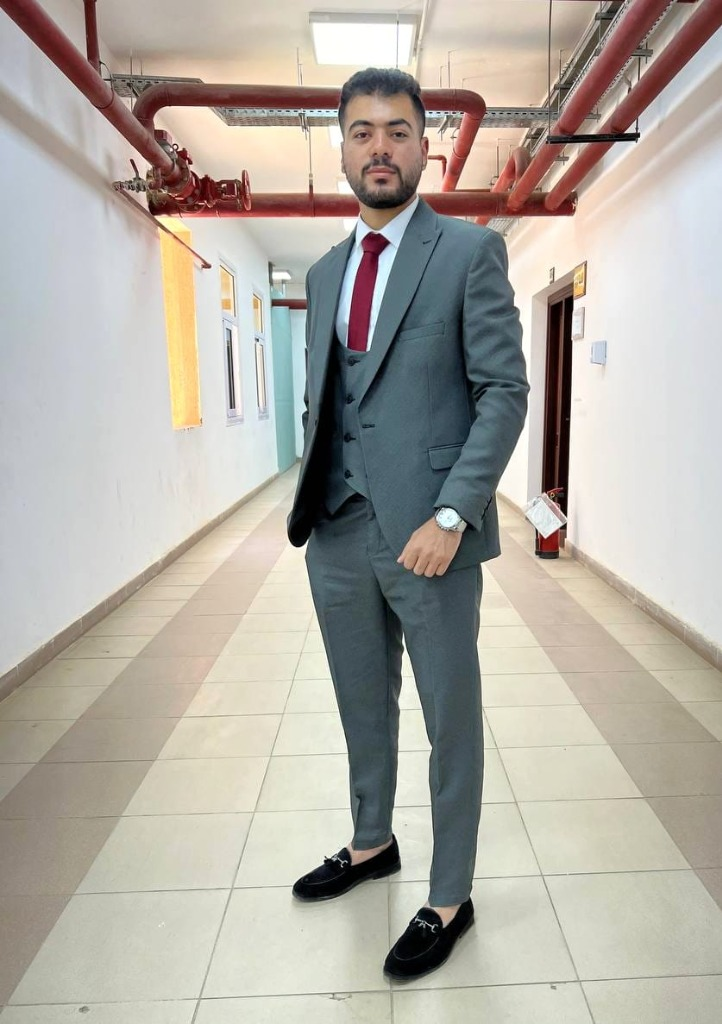
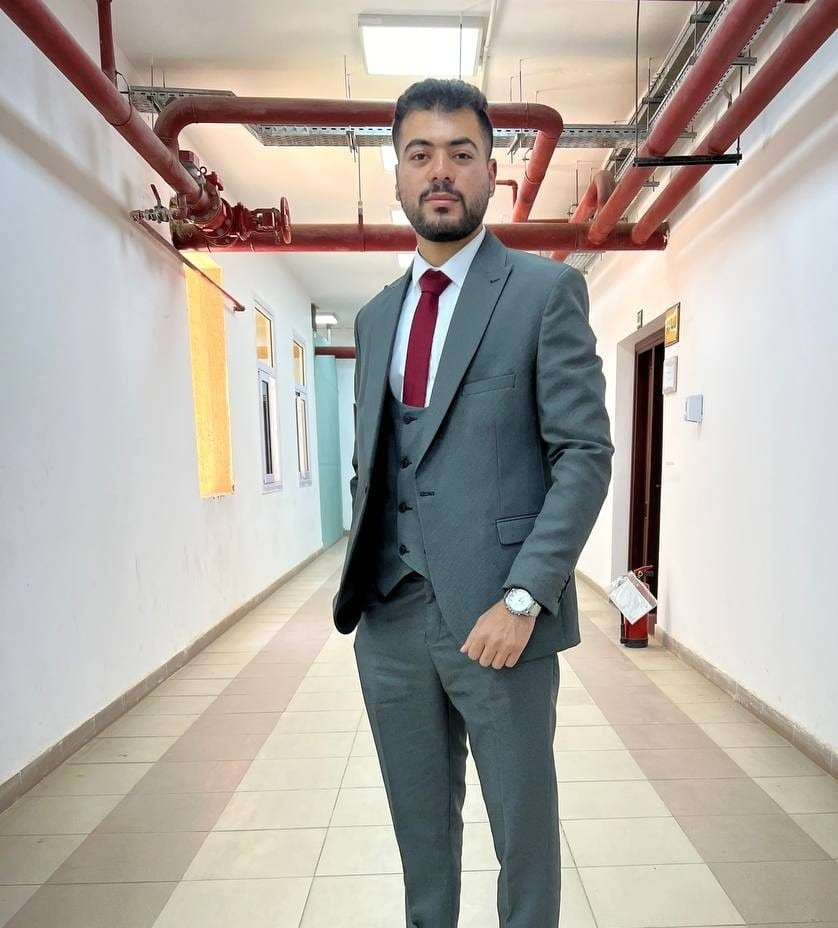
chore: change profile picture to the new uploaded one and bump cache buster to v=3

diff --git a/index.html b/index.html
@@ -55,7 +55,7 @@
         </div>
       </div>
       <div class="hero-image-wrapper reveal">
-        <img src="/profile.jpg?v=2" alt="Mostafa Ali" class="profile-img">
+        <img src="/profile.jpg?v=3" alt="Mostafa Ali" class="profile-img">
       </div>
     </div>
   </header>
